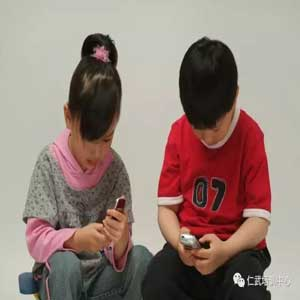
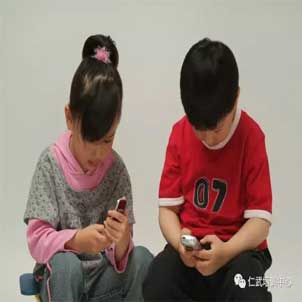
share

diff --git a/_includes/header.html b/_includes/header.html
@@ -1,3 +1,9 @@
+{% if page.share %}
+<div id='wx_pic' style='margin:0 auto;display:none;'>
+    <img src='{{ page.share }}' width="302" >
+</div>
+{% endif %}
+
 <header class="navbar navbar-inverse navbar-fixed-top docs-nav" role="banner">
   <div class="container">
     <div class="navbar-header">

diff --git a/_includes/head.html b/_includes/head.html
@@ -29,9 +29,4 @@
 		  s.parentNode.insertBefore(hm, s);
 		})();
 	</script>
-	{% if page.share %}
-	<div id='wx_pic' style='margin:0 auto;display:none;'>
-		<img src='{{ page.share }}' >
-	</div>
-	{% endif %}
 </head>
